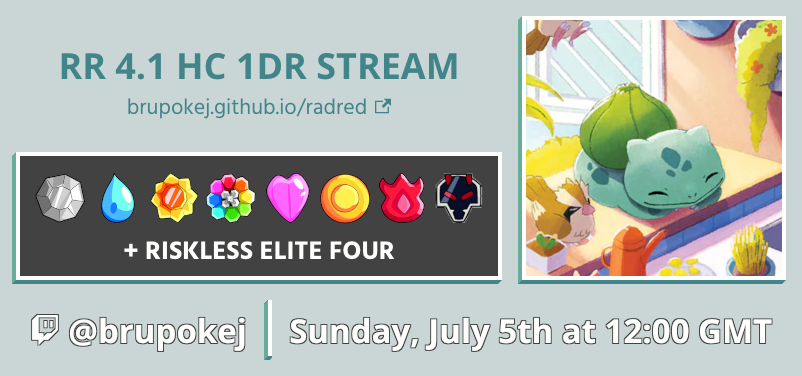
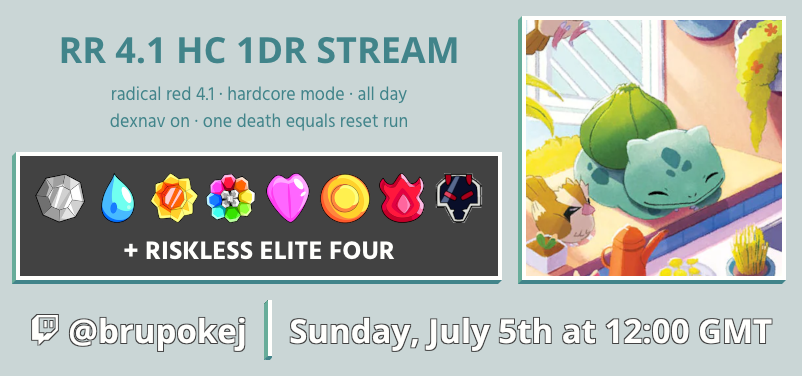
tweak announcement

Changed region(s): [[0.0623, 0.0878, 0.5923, 0.3511]]

diff --git a/site/src/pages/announcement.tsx b/site/src/pages/announcement.tsx
@@ -113,10 +113,11 @@ const css = `
   .poster-title-2 {
     font-family: "Hind", sans-serif;
     font-weight: normal;
-    font-size: 22px;
+    font-size: 18px;
     color: #41848a;
-    line-height: 1;
+    line-height: 1.5;
     margin-top: 8px;
+    text-align: center;
   }
 
   /* Left panel: left col, row 2 — grid sizes it to 486px × 128px */
@@ -213,17 +214,8 @@ export default function Announcement(): ReactNode {
           <div className="poster-titles">
             <div className="poster-title-1">RR 4.1 HC 1DR STREAM</div>
             <div className="poster-title-2">
-              brupokej.github.io/radred
-              <svg
-                viewBox="0 0 24 24"
-                width={16}
-                height={16}
-                fill="currentColor"
-                aria-hidden
-                style={{ marginLeft: "8px", verticalAlign: "top" }}
-              >
-                <path d="M21 13v10h-21v-19h12v2h-10v15h17v-8h2zm3-12h-10.988l4.035 4-6.977 7.07 2.828 2.828 6.977-7.07 4.125 4.172v-11z" />
-              </svg>
+              radical red 4.1 · hardcore mode · all day<br />
+              dexnav on · one death equals reset run
             </div>
           </div>
 
